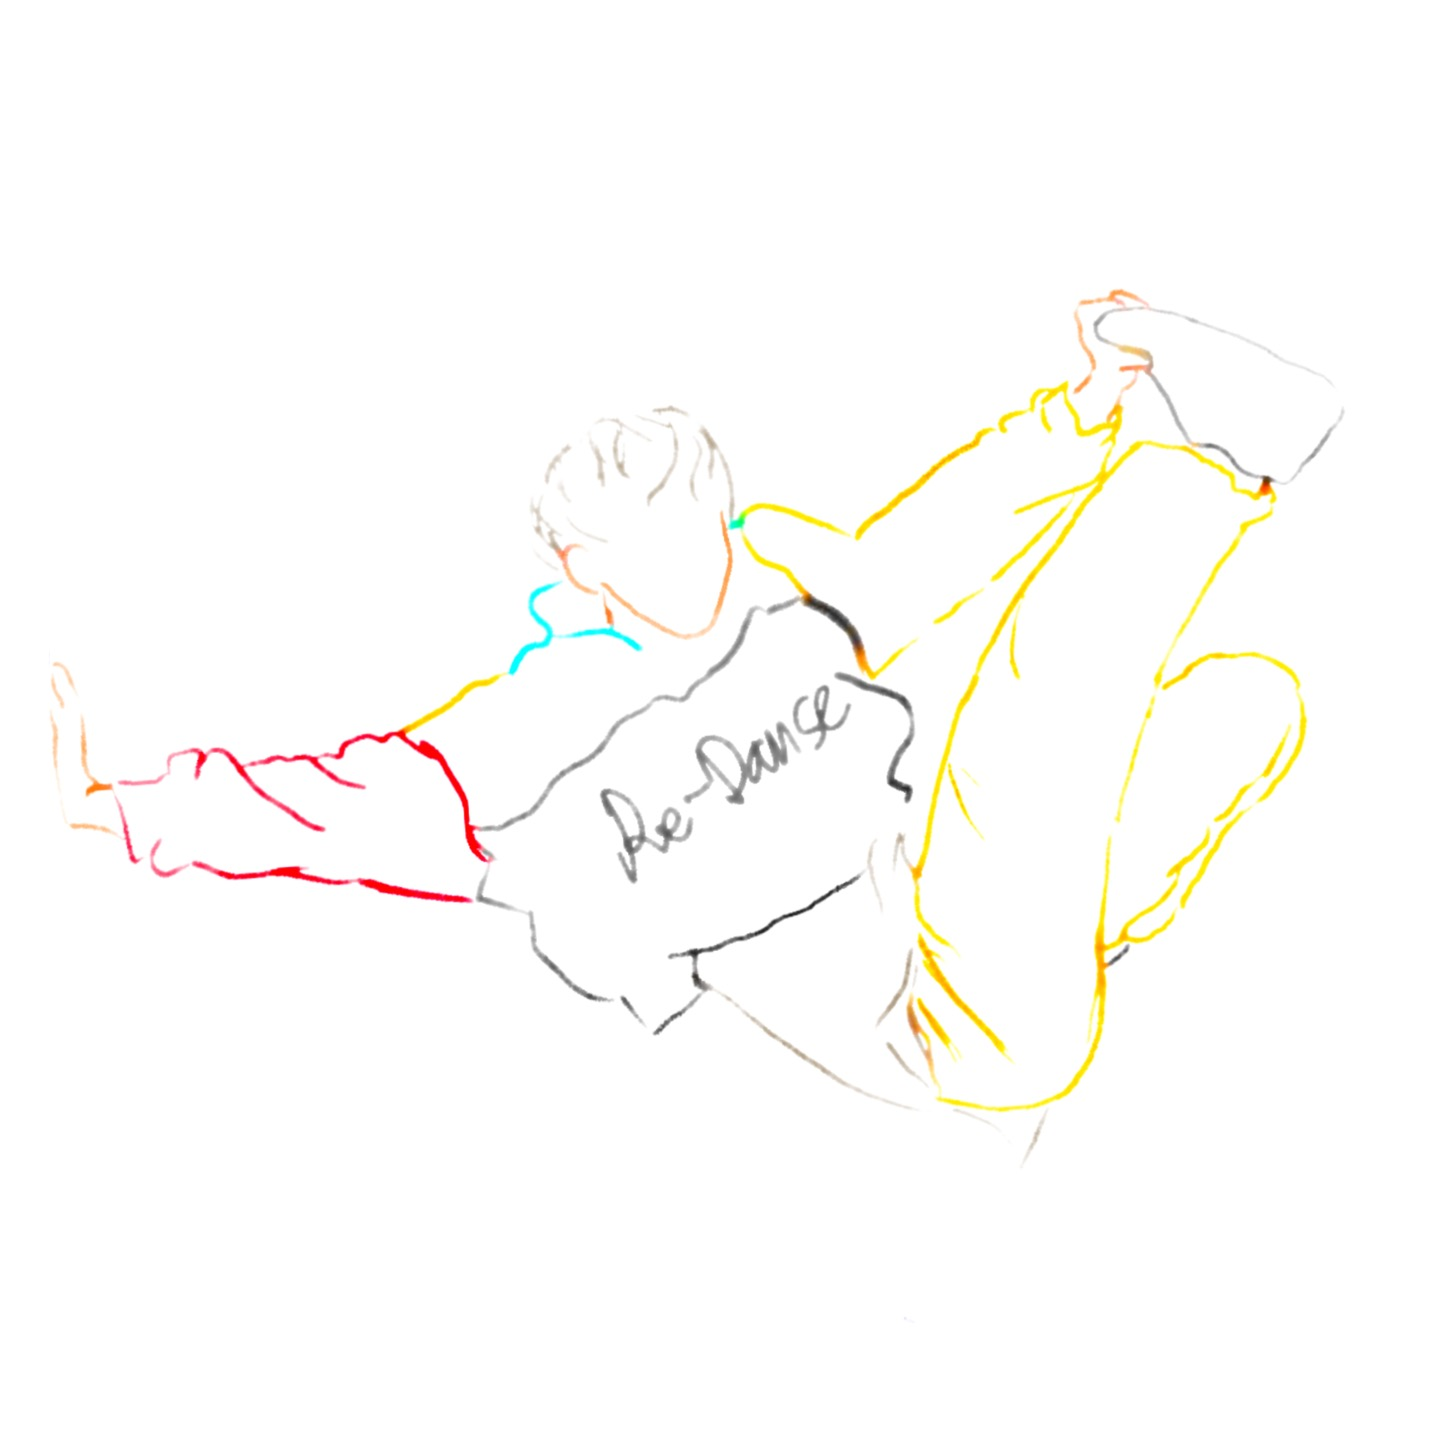
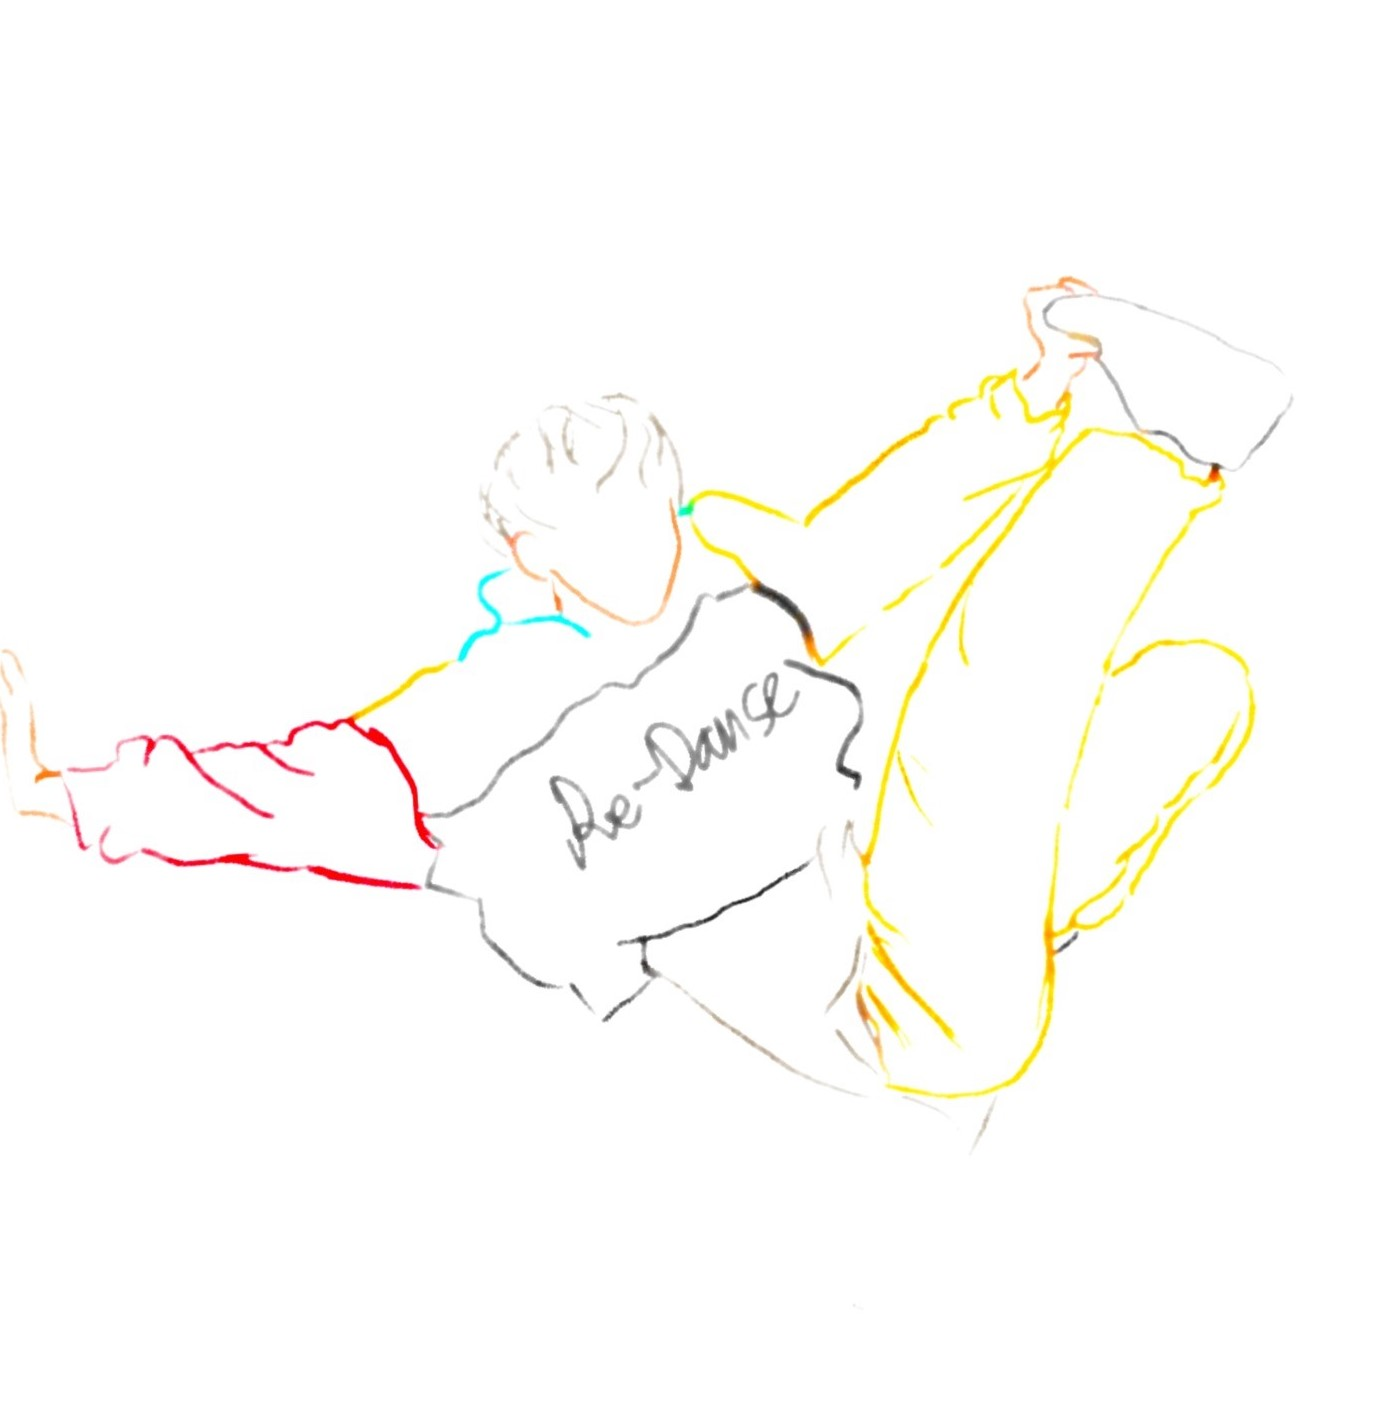
PaymentDetail.jsx CSS 구현 // payment_detail.jpg, PaymentDetail.jsx

diff --git a/src/Components/payment/PaymentDetail.jsx b/src/Components/payment/PaymentDetail.jsx
@@ -1,5 +1,7 @@
 import { useApiAxios } from 'Base/api/base';
 import { useEffect } from 'react';
+import { Link } from 'react-router-dom';
+import payment_detail from '../../Base/css/payment_detail.jpg';
 
 function PaymentDetail({ payment_num }) {
   const [{ data: payment, loading: payLoading, error: payError }, refetch] =
@@ -16,16 +18,40 @@ function PaymentDetail({ payment_num }) {
   }, []);
 
   return (
-    <div>
-      <h2>예약이 완료되었습니다.</h2>
-      {payment && (
-        <div>
-          <span>총 결제금액 : {payment.total_price}</span>
-          <span>결제 방법 : {payment.payment_method}</span>
-        </div>
-      )}
+    <div className="grid grid-cols-5 grid-rows-5">
+      <div className="ml-24 mt-16 pb- col-span-2  bg-violet-50 bg-opacity-50">
+        <div className="m-4 pb-10 border-y-4 border-dotted border-violet-300 ">
+          <div className="m-4 pt-4 ">
+            <h2 className=" mt-7 text-indigo-900 text-2xl text-center">
+              예약이 완료되었습니다.
+            </h2>
+            <hr className="m-5 mt-3" />
+            {payment && (
+              <div className="m-6 text-gray-800">
+                <p className=" font-light">
+                  총 결제금액 : {payment.total_price}
+                </p>
+                <p className="mt-2 font-light">
+                  결제 방법 : {payment.payment_method}
+                </p>
+              </div>
+            )}
 
-      <div>re-danse를 이용해주셔서 감사합니다. 우리 또, 만나요.</div>
+            <div className="mx-5 text-gray-500 text-sm">
+              Re-danse를 이용해주셔서 감사합니다. 우리 또, 만나요.
+            </div>
+            <hr className="m-5 mt-3 mb-7" />
+            <div className="m-auto pt-1 w-24 h-8 rounded-md bg-gray-300">
+              <Link to={'/clothes/'} className=" ml-4 text-white">
+                더 볼래요
+              </Link>
+            </div>
+          </div>
+        </div>
+      </div>
+      <div className="col-start-3 col-span-3 row-span-5">
+        <img className="w-5/6" src={payment_detail} alt="예약 완료" />
+      </div>
     </div>
   );
 }

diff --git a/src/Pages/payment/PagePaymentDetail.jsx b/src/Pages/payment/PagePaymentDetail.jsx
@@ -8,7 +8,6 @@ function PagePaymentDetail() {
   return (
     <div>
       <PaymentDetail payment_num={payment_num} />
-      <Link to={'/clothes/'}>더 볼래요!</Link>
     </div>
   );
 }
